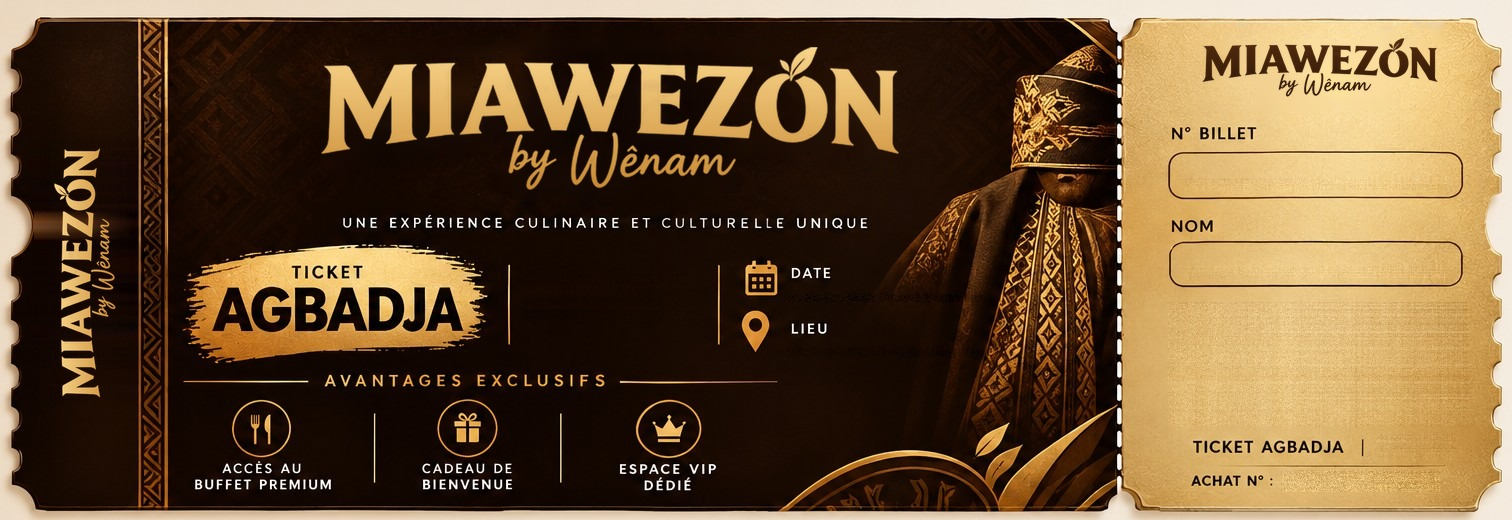
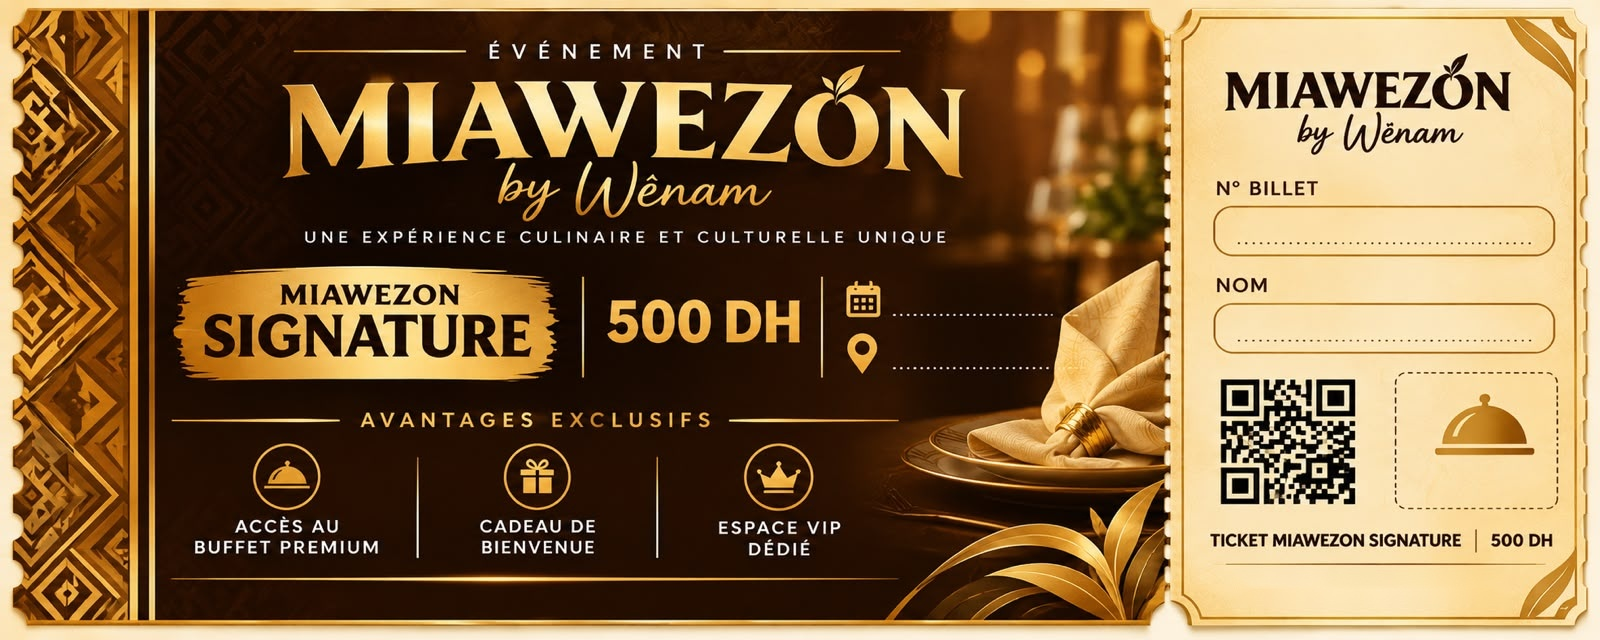
MIAWEZON : nouveaux modeles de billets (Decouverte/Signature) avec QR fonctionnel, renommage des categories, script de date
Claude-Session: https://claude.ai/code/session_01N563nh9DTjV3fnfwugRwXn

diff --git a/src/services/miawezon.service.js b/src/services/miawezon.service.js
@@ -8,8 +8,8 @@ const SLUG = 'miawezon';
 const HOLD_MINUTES = Number(process.env.MIAWEZON_HOLD_MINUTES || 20);
 
 const DEFAULT_CATEGORIES = [
-  { code: 'ZINLI', name: 'ZINLI', label: { fr: 'Billet Basique', en: 'Basic ticket' }, price: 350, capacity: 50, order: 1 },
-  { code: 'AGBADJA', name: 'AGBADJA', label: { fr: 'Billet VIP', en: 'VIP ticket' }, price: 500, capacity: 20, order: 2 },
+  { code: 'ZINLI', name: 'MIAWÉZON Découverte', label: { fr: 'Formule Découverte', en: 'Découverte package' }, price: 350, capacity: 50, order: 1 },
+  { code: 'AGBADJA', name: 'MIAWÉZON Signature', label: { fr: 'Formule Signature', en: 'Signature package' }, price: 500, capacity: 20, order: 2 },
 ];
 
 // Menu par defaut (modifiable ensuite dans l'admin)
@@ -71,6 +71,9 @@ async function getEvent() {
   for (const [code, [oldPrice, price]] of Object.entries(OLD_PRICES)) {
     await TicketCategory.updateOne({ event: ev._id, code, price: oldPrice }, { $set: { price } });
   }
+  // Renommage des categories (ZINLI/AGBADJA -> MIAWÉZON Découverte/Signature)
+  await TicketCategory.updateOne({ event: ev._id, code: 'ZINLI', name: { $in: ['ZINLI', 'Billet Basique'] } }, { $set: { name: 'MIAWÉZON Découverte', label: { fr: 'Formule Découverte', en: 'Découverte package' } } });
+  await TicketCategory.updateOne({ event: ev._id, code: 'AGBADJA', name: { $in: ['AGBADJA', 'Billet VIP'] } }, { $set: { name: 'MIAWÉZON Signature', label: { fr: 'Formule Signature', en: 'Signature package' } } });
   const count = await TicketCategory.countDocuments({ event: ev._id });
   if (count === 0) {
     await TicketCategory.insertMany(DEFAULT_CATEGORIES.map((c) => ({ ...c, event: ev._id })), { ordered: false }).catch(() => {});

diff --git a/src/services/menuDocs.js b/src/services/menuDocs.js
@@ -23,6 +23,7 @@ const FONTS = {
 };
 
 const TIERS = ['ZINLI', 'AGBADJA'];
+const TIER_SHORT = { ZINLI: 'Découverte', AGBADJA: 'Signature' };
 const SECTIONS = ['entrees', 'plats', 'desserts', 'boissons'];
 
 const M = {
@@ -92,7 +93,7 @@ function content(doc, { tier, cat, sections, lang, th, logo }, s, k, ox, oy, cw,
   y += lh + S.gLogo * s;
 
   y += text(m.menu.toUpperCase(), 'mz-700', S.label, th.muted, { sp: S.labelSp }) + S.gLabel * s;
-  y += text(tier, 'pf-700', S.tier, th.title, { sp: S.tierSp }) + S.gTier * s;
+  y += text(TIER_SHORT[tier] || tier, 'pf-700', S.tier, th.title, { sp: S.tierSp }) + S.gTier * s;
   if (cat) {
     const line = `${pick(cat.label, lang) || cat.name}  ·  ${fmtPrice(cat.price)} ${m.perPerson}`;
     y += text(line, 'mz-600', S.cat, th.text) + S.gCat * s;
@@ -140,7 +141,7 @@ function content(doc, { tier, cat, sections, lang, th, logo }, s, k, ox, oy, cw,
         if (desc) h += S.gName * s + t(desc, 'pf-i400', S.desc, th.muted);
         if (it.exclusive) {
           h += S.gDesc * s;
-          const label = m.exclusive(tier).toUpperCase();
+          const label = m.exclusive(TIER_SHORT[tier] || tier).toUpperCase();
           doc.font('mz-700').fontSize(px(S.badge * s));
           const tw = doc.widthOfString(label, { characterSpacing: px(S.badgeSp * s) }) / k;
           const bh = S.badge * s * 1.25 + S.badgePadY * s * 2;

diff --git a/src/services/ticketDocs.js b/src/services/ticketDocs.js
@@ -83,7 +83,7 @@ function ticketFields({ ticket, order, event }) {
     venue: labelOr(event.venue, lang, t.tbc),
     number: ticket.number,
     holder: ticket.holderName,
-    purchase: order.orderNumber,
+    purchase: `ACHAT N° : ${order.orderNumber}`,
   };
 }
 
@@ -146,8 +146,14 @@ async function ticketsPdf({ order, tickets, event }) {
     const qr = await qrBuffer(tk);
     const q = L.qr;
     const pad = q.pad || 0;
-    if (q.bg) doc.roundedRect(q.x * s, q.y * s, q.size * s, q.size * s, (q.radius || 0) * s).fill(q.bg);
-    doc.image(qr, (q.x + pad) * s, (q.y + pad) * s, { width: (q.size - 2 * pad) * s, height: (q.size - 2 * pad) * s });
+    const qw = q.w || q.size;
+    const qh = q.h || q.size || qw;
+    if (q.bg) doc.roundedRect(q.x * s, q.y * s, qw * s, qh * s, (q.radius || 0) * s).fill(q.bg);
+    // QR carre centre dans la pastille (le modele a un emplacement non carre)
+    const side = Math.min(qw, qh) - 2 * pad;
+    const ix = q.x + (qw - side) / 2;
+    const iy = q.y + (qh - side) / 2;
+    doc.image(qr, ix * s, iy * s, { width: side * s, height: side * s });
     if (hasLogo && L.logo) {
       const g = L.logo;
       // Logo dore sur un badge sombre pour rester lisible sur le talon dore

diff --git a/scripts/miawezon-set-date.js b/scripts/miawezon-set-date.js
@@ -1,0 +1,22 @@
+// Regle la date et l'horaire de l'evenement MIAWEZON.
+//   node scripts/miawezon-set-date.js                      -> 24 juillet 2027, 15h a 20h
+//   node scripts/miawezon-set-date.js 2027-07-24 "15h à 20h"
+require('dotenv').config();
+const mongoose = require('mongoose');
+const TicketEvent = require('../src/models/TicketEvent');
+
+(async () => {
+  const dateArg = process.argv[2] || '2027-07-24';
+  const timeFr = process.argv[3] || '15h à 20h';
+  const timeEn = process.argv[4] || '3 pm to 8 pm';
+  // Midi UTC pour eviter tout decalage de jour
+  const eventDate = new Date(`${dateArg}T12:00:00+01:00`);
+  if (Number.isNaN(eventDate.getTime())) { console.log('Date invalide (format AAAA-MM-JJ)'); process.exit(1); }
+  await mongoose.connect(process.env.MONGODB_URI);
+  const r = await TicketEvent.updateOne({ slug: 'miawezon' }, { $set: {
+    eventDate,
+    eventTimeLabel: { fr: timeFr, en: timeEn },
+  } });
+  console.log(r.matchedCount ? `Date reglee : ${dateArg}, ${timeFr}` : 'Evenement introuvable');
+  await mongoose.disconnect();
+})().catch((e) => { console.error('ERREUR :', e.message); process.exit(1); });
